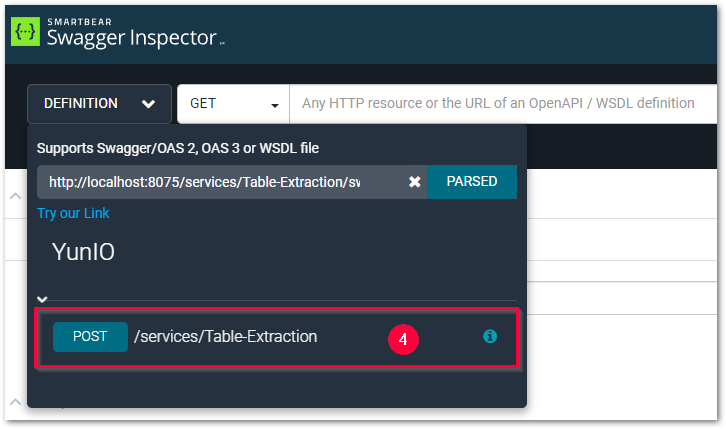
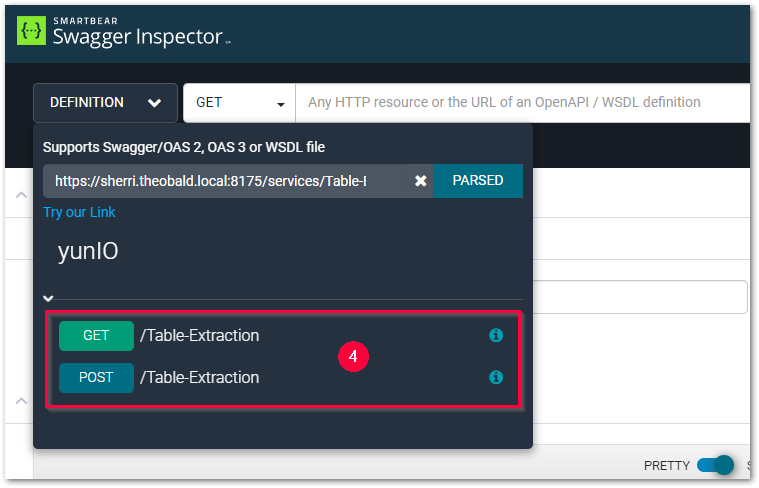
yunIO services in swagger editor updated

diff --git a/content/_yunio/running-a-yunio-service-in-swagger-inspector.md b/content/_yunio/running-a-yunio-service-in-swagger-inspector.md
@@ -23,10 +23,12 @@ For more information on the Swagger Inspector, see [Swagger Inspector Documentat
 1. Open Swagger Inspector in your browser.
 2. Navigate to the **Definition** menu (1). There are 2 ways to load a yunIO service definition into the swagger inspector:<br>
 - Paste the URL of the service definition into the designated input field (2).
-- Click on the upload icon to load a service definition from your harddrive (2).
+- Click on the upload icon to load a service definition from your hard drive (2).
 3. Click **[PARSE]** to analyze the service definition (3).<br>
 ![Swagger-Inspector-Load-Service-1](/img/contents/yunio/swagger-inspector-load.png){:class="img-responsive"}
-4. Once the service is parsed, click on the service (4) to access any authentication, headers and parameter settings of the service.<br>
+4. Once the service is parsed, click on either the GET or POST method of the service (4) to access the authentication, headers and parameter settings of the service.<br>
+We recommend using the POST method with Transport Layer Security (HTTPS) to ensure data protection. 
+Do not use the GET method to send sensible data, e.g. credentials.<br>
 ![Swagger-Inspector-Load-Service-2](/img/contents/yunio/swagger-inspector-load-body.png){:class="img-responsive"}
 
 {: .box-tip }
@@ -39,11 +41,14 @@ All parameters defined in yunIO are accessible in the request body of the servic
 To set parameters, edit the *Body*, e.g. change the WHERE clause of the table extraction. <br>
 ![Swagger-Inspector](/img/contents/yunio/swagger-inspector.png){:class="img-responsive"}
 
+{: .box-note }
+**Note:** When passing a WHERE clause to a yunIo service using the http GET method, you must add spaces manually, e.g., `MANDT=800 and LAND1='DE'` instead of `MANDT=800andLAND1='DE'`.
+
 ### Running the Service
 
 {: .box-note }
 **Note:** If the option [*Request credentials from callers when running services*](https://help.theobald-software.com/en/yunio/sap-connection#authentication) is active in the connection settings in yunIO, 
-you have to select *Basic Authentication* in the *Authentication & Headers* tab of Swagger Insector and enter your SAP credentials before running the service.
+you have to select *Basic Authentication* in the *Authentication & Headers* tab of Swagger Inspector and enter your SAP credentials before running the service.
 
 After parsing the service definition, the URL of the service endpoint should be available in the main URI input line.
 If not, enter the URL and select the *POST* method. 
